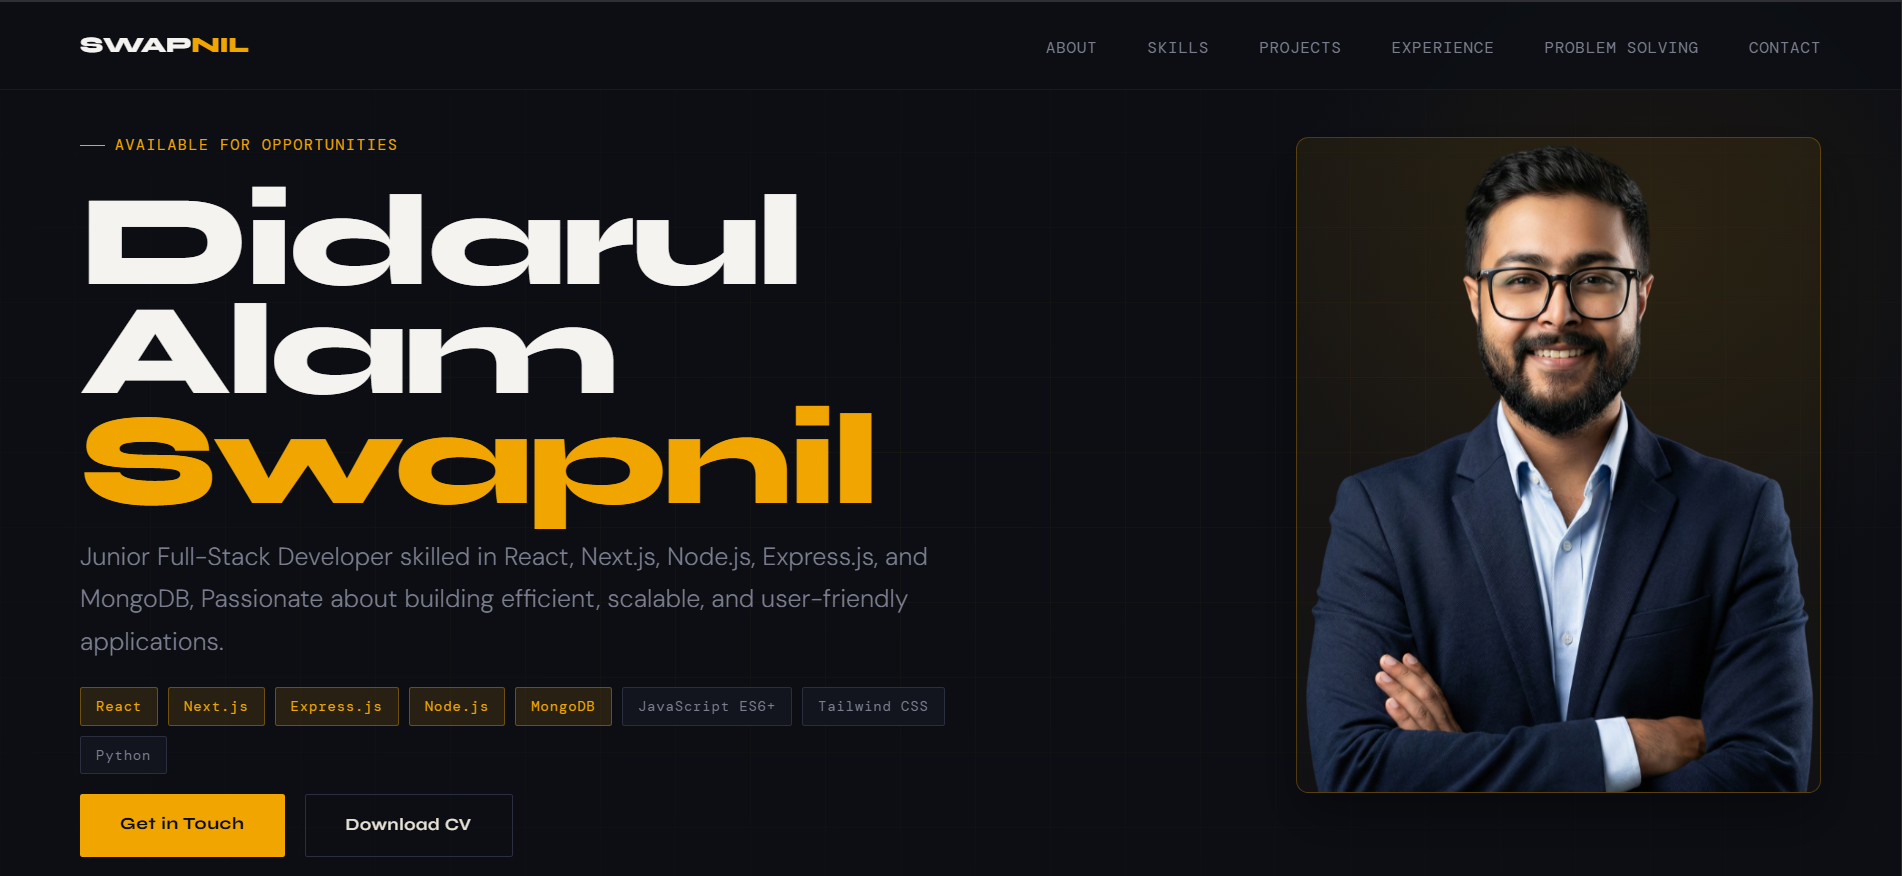
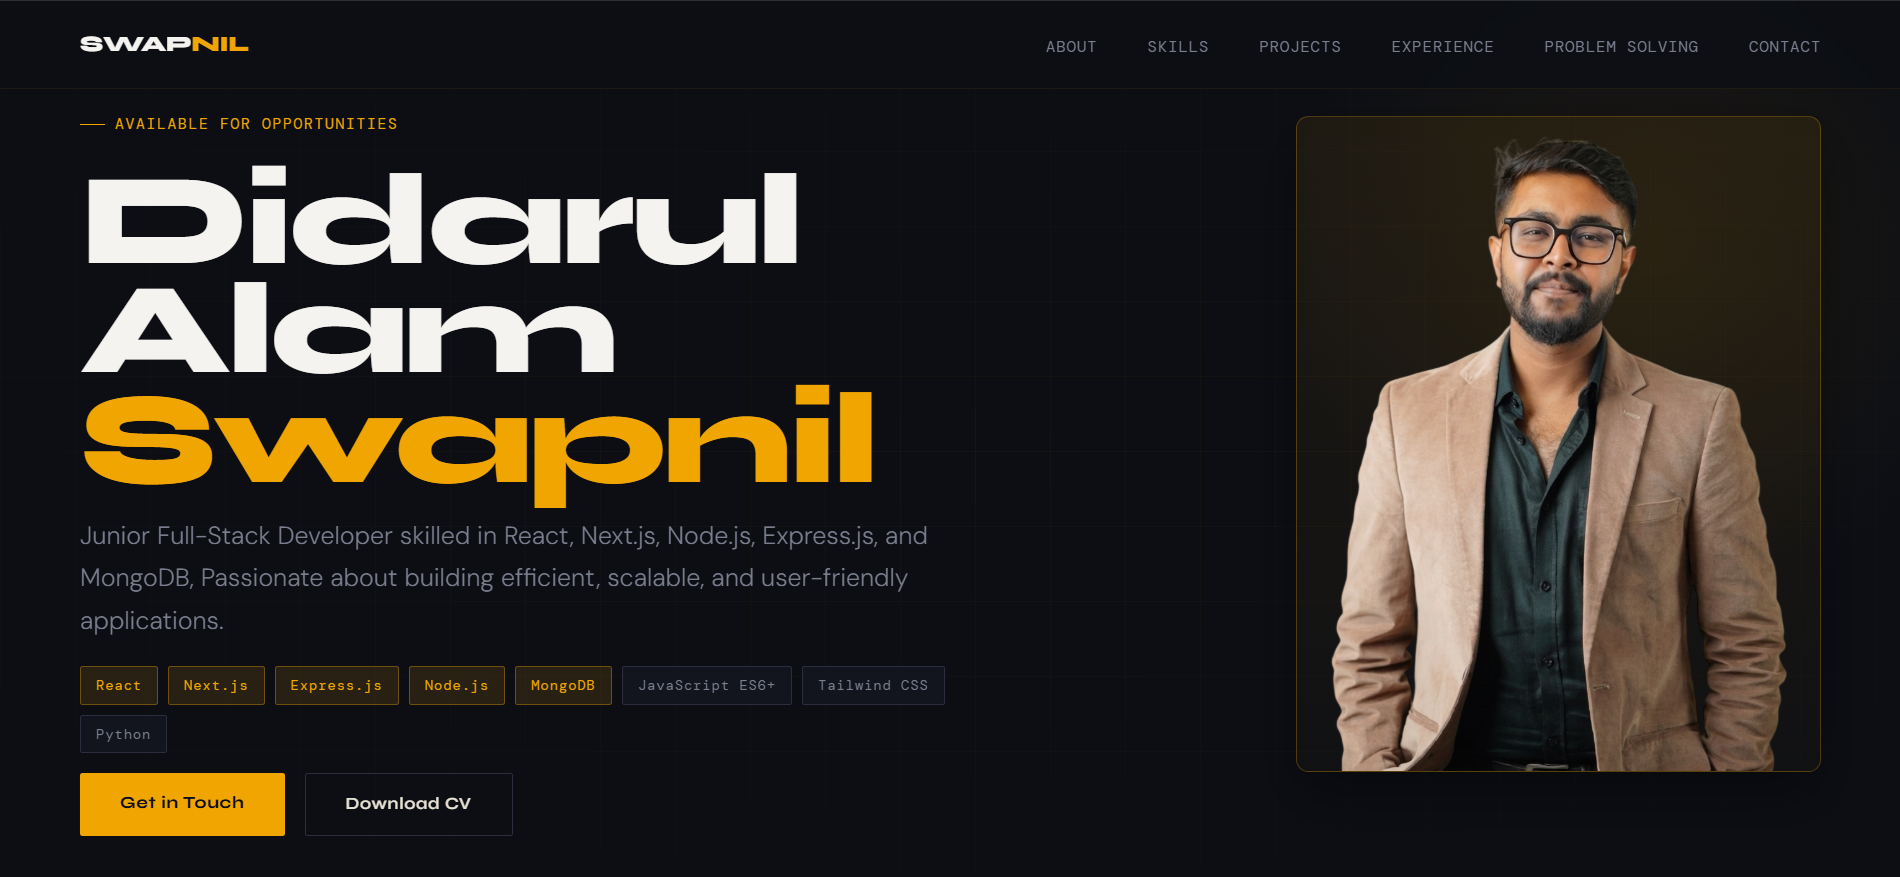
changed picture

diff --git a/index.html b/index.html
@@ -1182,7 +1182,7 @@
       </div>
     </div>
     <figure class="hero-image" aria-label="Didarul Alam Swapnil profile image">
-      <img src="assets/swapnil-professional-photo-no-bg.png" alt="Portrait of Didarul Alam Swapnil" loading="eager" />
+      <img src="assets/formal-no-bg.PNG" alt="Portrait of Didarul Alam Swapnil" loading="eager" />
     </figure>
   </div>
 </section>
